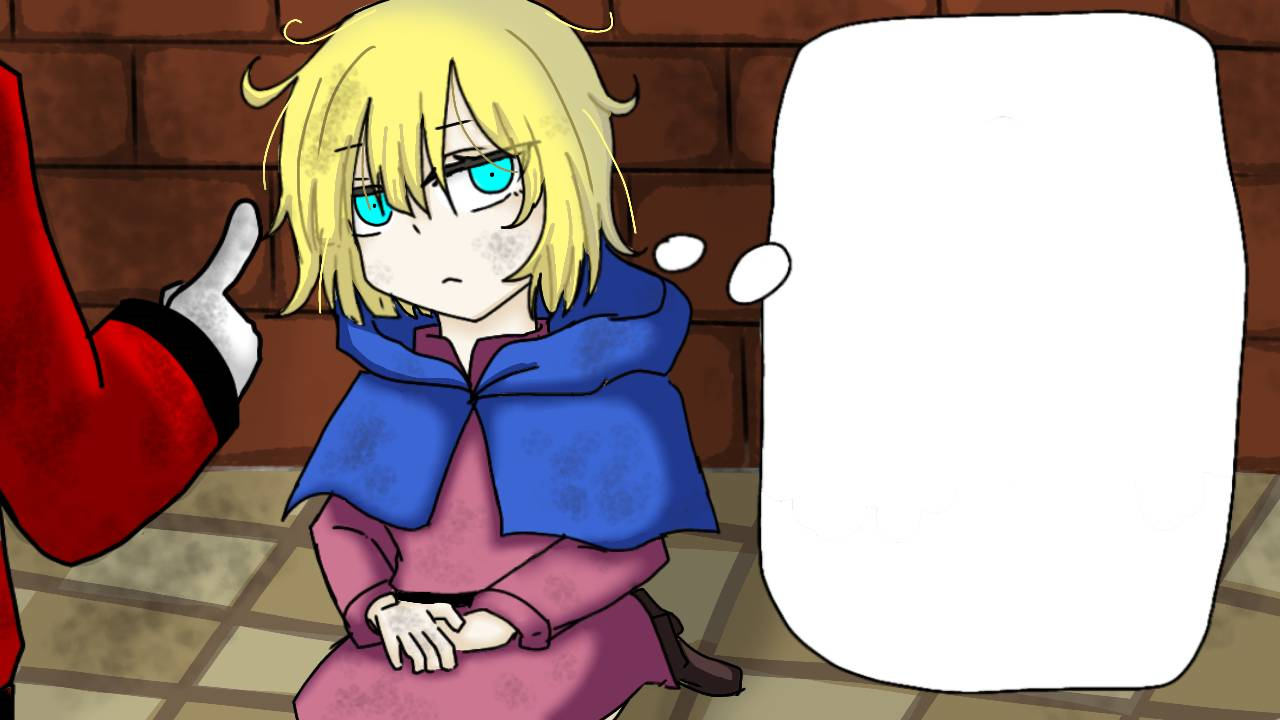
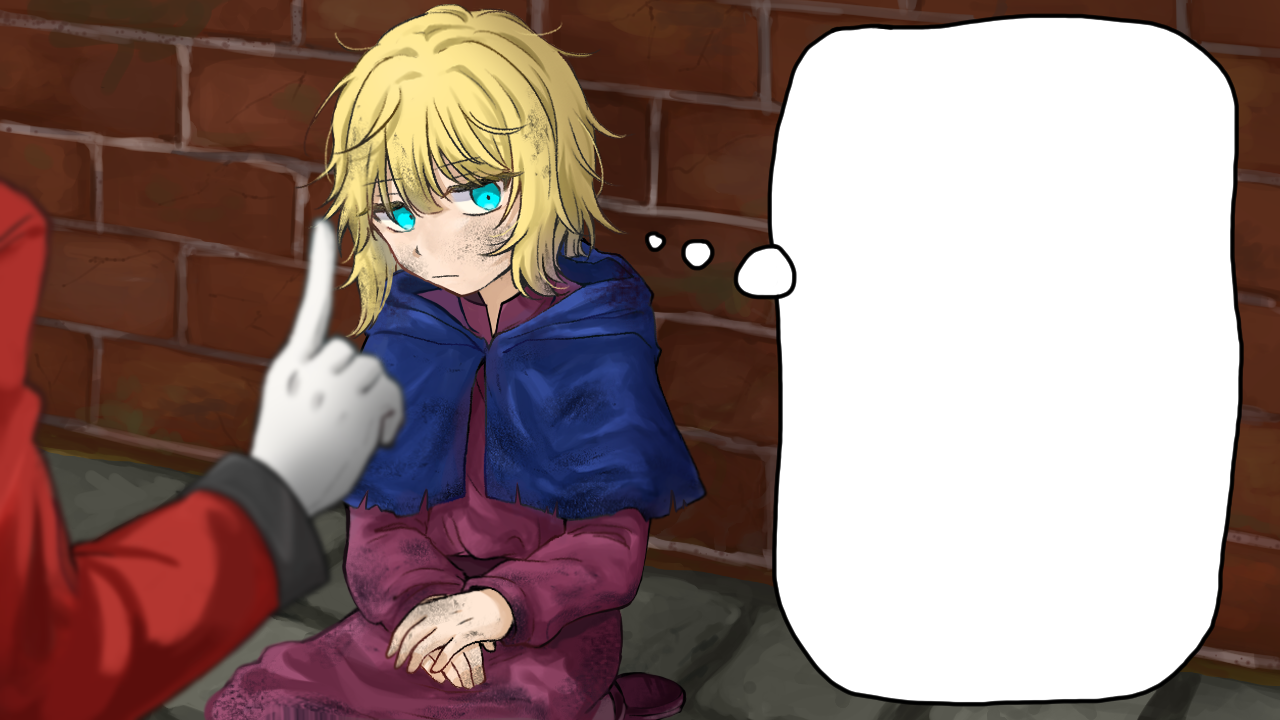
画像の差し替え
氷の床
台風
爆弾にぶつかる
ライフ
タイトル
リザルト

diff --git a/LanturnGame/Scene/GameMain.cpp b/LanturnGame/Scene/GameMain.cpp
@@ -1709,7 +1709,7 @@ void GameMain::Draw() const
 	DrawRotaGraph(SCREEN_WIDTH - 128, 328, 1.0, 0.0, lifeimage, true);
 	for (int i = 0; i < life; i++)
 	{
-		DrawRotaGraph(SCREEN_WIDTH - 180 + (24 * i), 360, 1.0, 0.0, lifematchimage, true);
+		DrawRotaGraph(SCREEN_WIDTH - 202 + (50 * i), 360, 1.0, 0.0, lifematchimage, true);
 	}
 
 	//ミニマップ
@@ -1811,13 +1811,13 @@ void GameMain::Draw() const
 		bufscore = score;
 		for (int s = 0; s < num; s++)
 		{
-			DrawRotaGraph((SCREEN_WIDTH - 140 + (26 * num) / 2) - (26 * s), 490, 0.6, 0.0, numimage[bufscore % 10], true);
+			DrawRotaGraph((SCREEN_WIDTH - 130 + (26 * num) / 2) - (26 * s), 490, 0.6, 0.0, numimage[bufscore % 10], true);
 			bufscore /= 10;
 		}
 
 		if (textdisp->GetFlg() == true)
 		{
-			descripition->Draw();
+			//descripition->Draw();
 		}
 	}
 	// リザルトなら

diff --git a/LanturnGame/main.cpp b/LanturnGame/main.cpp
@@ -34,7 +34,7 @@ int WINAPI WinMain(_In_ HINSTANCE hInstance, _In_opt_ HINSTANCE hPrevInstance, _
 	Sounds::SetSoundVolume(Sounds::BGM, (int)UserData::LoadData(UserData::SOUNDS, 0));
 	Sounds::SetSoundVolume(Sounds::SE, (int)UserData::LoadData(UserData::SOUNDS, 1));
 
-	SceneManager scene = (dynamic_cast<AbstractScene*>(new Title()));
+	SceneManager scene = (dynamic_cast<AbstractScene*>(new GameMain()));
 
 	FpsController FPSct(FRAMERATE, UPDATETIME);
 

diff --git a/LanturnGame/Utility/common.h b/LanturnGame/Utility/common.h
@@ -6,7 +6,7 @@
 #define FRAMERATE 60.0
 #define UPDATETIME 800
 
-#define GM_MAX_LIFE 5
+#define GM_MAX_LIFE 4
 
 #define GM_MAX_ENEMY_BOMB 200
 #define GM_MAX_EFFECT_EXPLOSION 200
